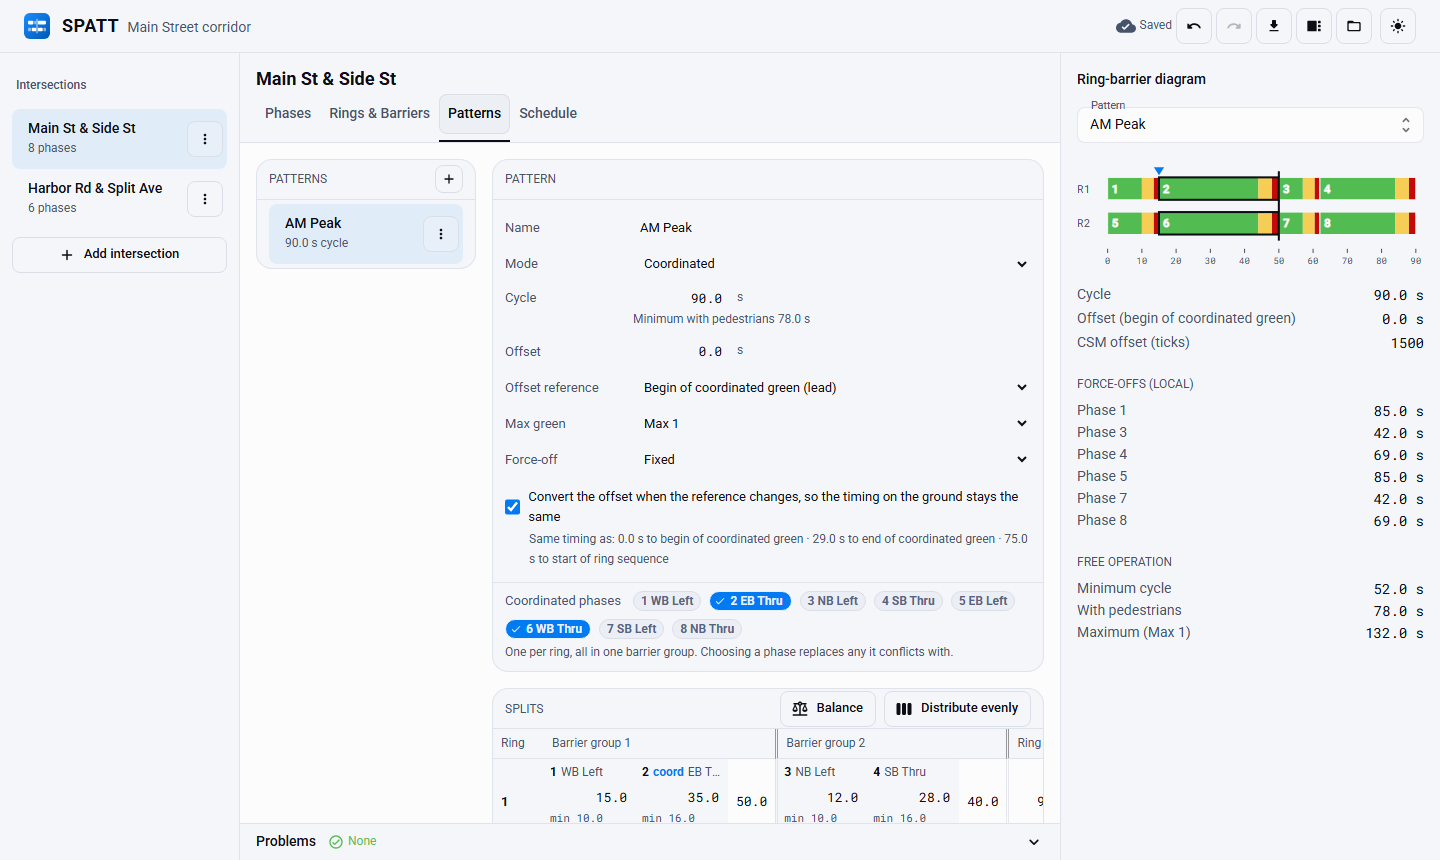
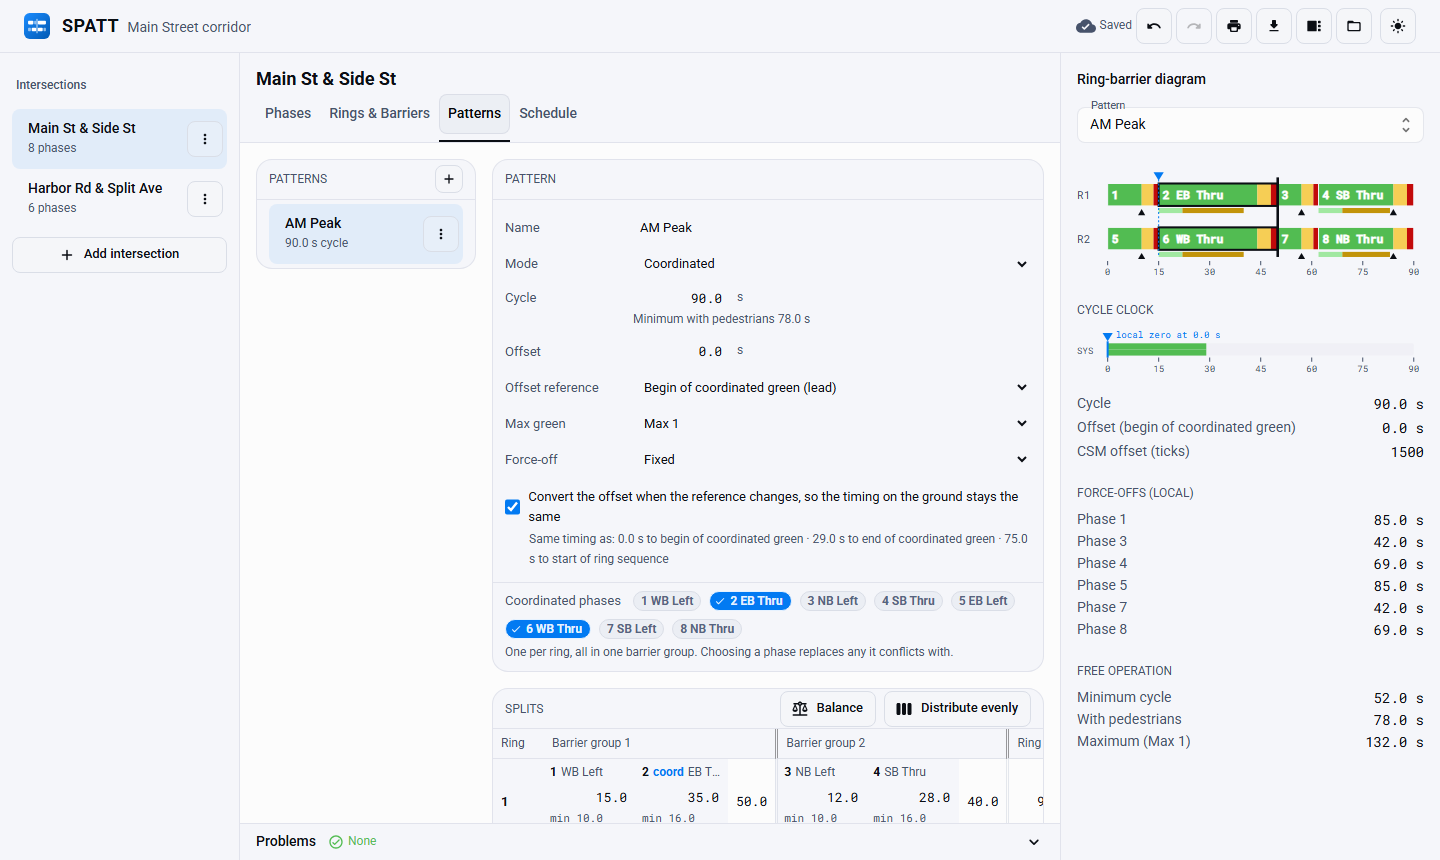
Document the ring-barrier diagram, cycle clock and timing sheets

diff --git a/docs/getting-started/editor.md b/docs/getting-started/editor.md
@@ -31,9 +31,8 @@ in version control. The format is documented in [Project File Format](../develop
   two-phase, or the CSM ASC-3 controller's defaults. Each intersection's menu renames,
   duplicates or deletes it.
 - **Tabs.** Phases, Rings & Barriers, Patterns and Schedule, described below.
-- **Ring-barrier diagram.** Docked on the right on wide windows (toggle it from the header). It
-  shows the selected pattern's split windows per ring, the barriers, the coordinated phases and
-  the offset reference, and lists force-offs and the minimum and maximum cycle.
+- **Ring-barrier diagram.** Docked on the right on wide windows (toggle it from the header). See
+  [The ring-barrier diagram](#the-ring-barrier-diagram) below.
 - **Problems.** Every validation error and warning in the project. Click one to jump to the field
   it is about. A plan with errors still opens and saves, so it can be fixed.
 - **Undo and redo.** Every edit is one step: the header buttons, or ++ctrl+z++ and ++ctrl+y++ when
@@ -114,6 +113,46 @@ The timeline above the list shows the whole day.
 
 Validation runs after every change. Here, raising phase 4's minimum green to 24 s left its 28 s
 split shorter than green plus clearances: the intersection shows the error in the sidebar, the
-diagram waits for the pattern to be fixed, and clicking the problem opens the Patterns tab with
-the split selected. **Balance** or a longer split clears it. Every rule and its code is listed in
+diagram outlines phase 4 in red, and clicking the problem opens the Patterns tab with the split
+selected. **Balance** or a longer split clears it. Every rule and its code is listed in
 [Project File Format](../developer/project-format.md).
+
+## The ring-barrier diagram
+
+The diagram draws the selected pattern across one cycle:
+
+- one lane per ring, each split coloured green, yellow and red clearance, with the walk and
+  pedestrian clearance intervals as a thin strip underneath;
+- heavy vertical lines at the barriers, and a heavy outline around the coordinated phases;
+- a small triangle under each non-coordinated phase at its force-off;
+- a blue marker and dashed line at local zero, the point the offset is measured to.
+
+The scale runs from the start of barrier group 1. Hover over a phase for its split, its green
+start and force-off (or yield point) in local time, and its pedestrian times.
+
+The **cycle clock** underneath shows the same cycle on the shared system clock: local zero sits at
+the offset, and the coordinated phases' green is shaded where it falls. Two intersections on the
+same cycle whose coordinated greens line up on this strip turn green together.
+
+A pattern with timing errors, such as a split shorter than minimum green, is still drawn with the
+affected phases outlined in red. When the layout itself is undefined (rings that would miss a
+barrier, splits that do not add up to the cycle, no coordinated phase, a split too short for its
+own yellow and red clearance) the panel asks you to fix those problems first.
+
+## Timing sheets
+
+![A timing sheet in the print preview](../assets/screenshots/timing-sheet.png)
+
+The print button in the header opens the timing sheet preview. Choose **This intersection** or
+**All**, and **Letter** or **A4**, then **Print** to use the system print dialog, which can also
+save a PDF. Each sheet has:
+
+- the phase timing table, with the same fields as the Phases tab;
+- the ring and barrier structure;
+- each pattern's cycle, offset and its reference, coordinated phases, splits, green starts and
+  force-offs in local time, its ring-barrier diagram with a legend, and its cycle clock;
+- the daily schedule with end times and durations;
+- any unresolved problems, and the intersection's notes.
+
+Sheets always print in light colours, and every intersection starts on a new page. **Back to
+editor** returns to where you were.

diff --git a/docs/developer/architecture.md b/docs/developer/architecture.md
@@ -36,6 +36,16 @@ affordances depend on the host; nothing else may.
 behind shared functions and traits. Paths come from platform directory APIs, never hard-coded.
 Scripts are Node or Rust, never shell-specific, so every command works on every OS.
 
+**Diagrams draw projections, never raw splits.** `projectCycle` (`src/engine/projection.ts`)
+turns a pattern into interval times; the ring-barrier diagram, the cycle clock and the timing
+sheet (`src/ui/diagram`, `src/ui/sheet`) only draw what it returns. It refuses layouts it cannot
+draw honestly and passes the remaining errors along, so every view agrees on what is drawable.
+
+**Printing is the browser's.** The timing sheet is ordinary HTML with print CSS (`@page` size,
+page breaks, a forced light colour scheme) and `window.print()`. That opens the print dialog in a
+browser and in the Windows desktop app (WebView2); the macOS and Linux webviews are not verified
+yet.
+
 ## Design
 
 The interface follows the [Mica Design Guidelines](https://micatechnologies.com/design): the MUI

diff --git a/README.md b/README.md
@@ -30,9 +30,9 @@ so plans move straight into and out of that controller.
 > deployment on public roads.
 
 > [!NOTE]
-> **Status: early development.** The timing model and the intersection editor work in the
-> desktop app and the browser. Printable timing sheets, the network server and the CSM bridge
-> are next; see the [roadmap](https://mica-technologies.github.io/SPATT/roadmap/).
+> **Status: early development.** The timing model, the intersection editor, ring-barrier
+> diagrams and printable timing sheets work in the desktop app and the browser. The network
+> server and the CSM bridge are next; see the [roadmap](https://mica-technologies.github.io/SPATT/roadmap/).
 
 ![SPATT's pattern editor: split grid with barrier groups, and the ring-barrier diagram](docs/assets/screenshots/editor-patterns.png)
 

diff --git a/docs/roadmap.md b/docs/roadmap.md
@@ -12,7 +12,7 @@ SPATT is built in stages. Each stage ends with something usable.
 - [x] Intersection editor: project library, phase grid, rings and barriers, patterns with
       split balancing, schedule, clearance calculator, live ring-barrier diagram
       ([guide](getting-started/editor.md))
-- [ ] Ring-barrier diagram and printable timing sheets
+- [x] Ring-barrier diagram, cycle clock and printable timing sheets
 - [ ] Network server with shared project storage, manager controls, background modes
       (start at login, system service) with tray icon
 - [ ] CSM ASC-3 profile, and timing-plan import/export in the City Super Mod
